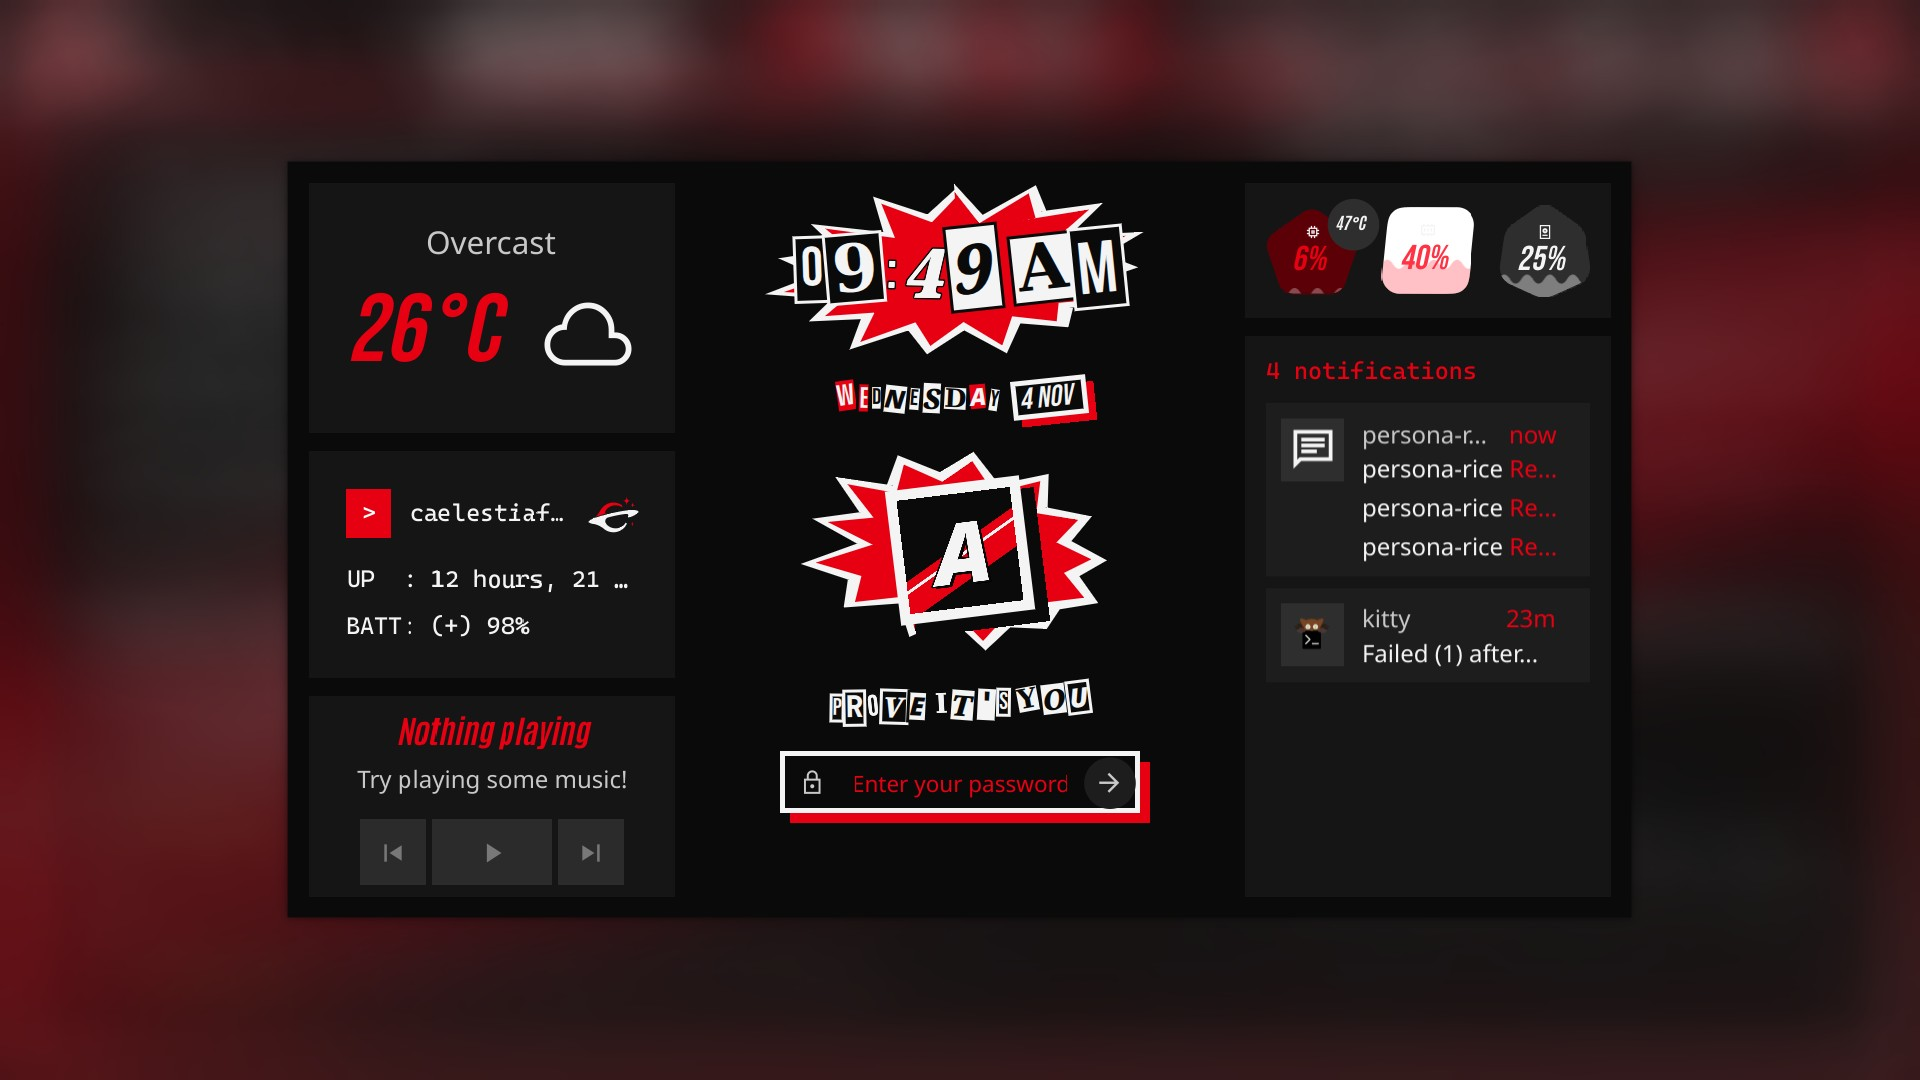
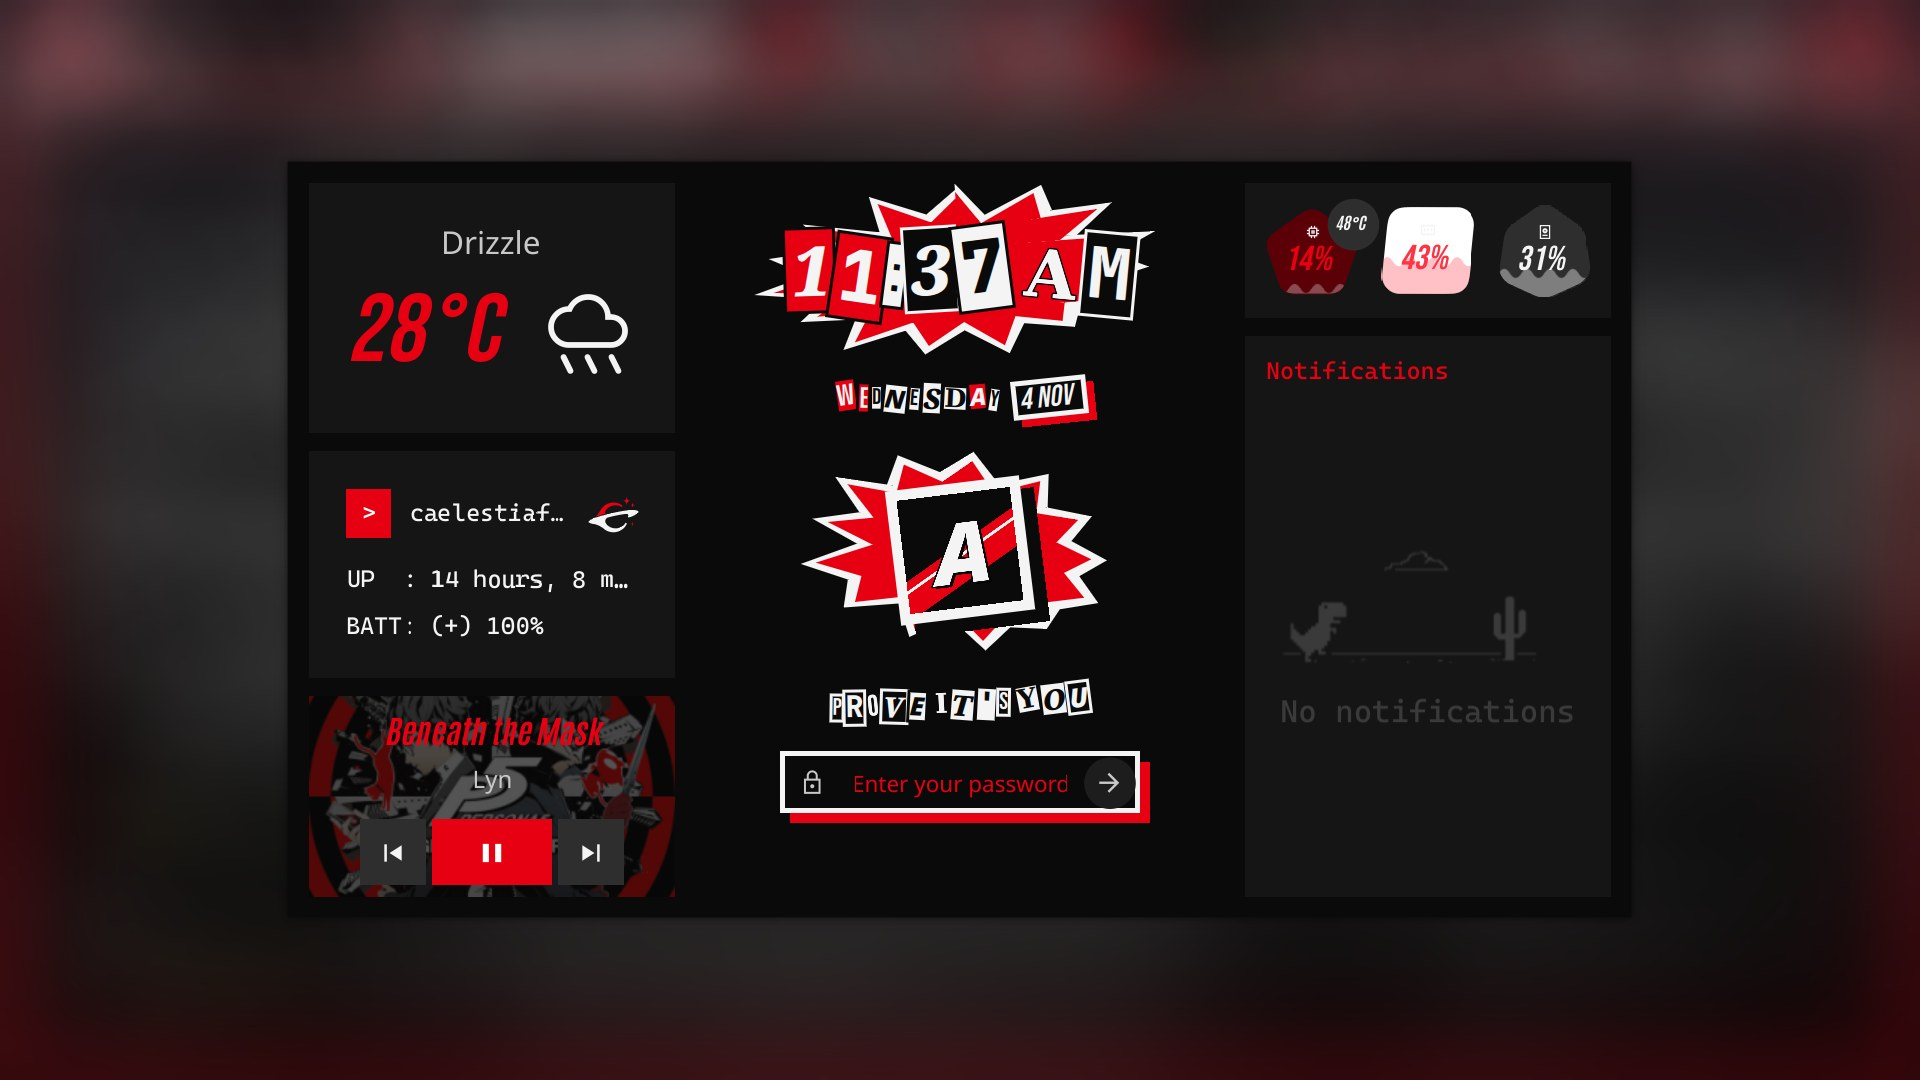
preview: retake lock screen screenshot

diff --git a/README.md b/README.md
@@ -4,7 +4,7 @@ A red / black / white, punk-collage Linux rice inspired by the *Persona* series 
 
 Built on **Hyprland + [Caelestia shell](https://github.com/caelestia-dots/shell) + Quickshell**. The terminal greeting works on its own on any distro.
 
-> Fan-made and unofficial. Not affiliated with or endorsed by Atlus or SEGA. Every graphic here is original and drawn in code. It contains no game assets.
+> Fan-made and unofficial. Not affiliated with or endorsed by Atlus or SEGA. Every graphic here is original and drawn in code. It contains no game assets. (The album art in the lock screen screenshot is just whatever Spotify was playing; it isn't part of the rice.)
 
 ![terminal](preview/terminal.jpg)
 
